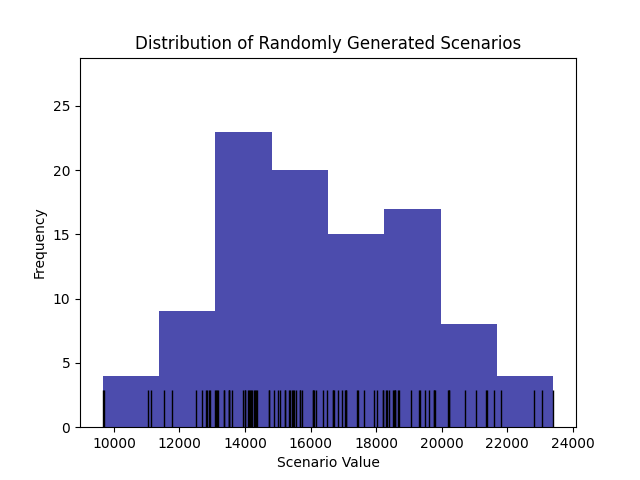
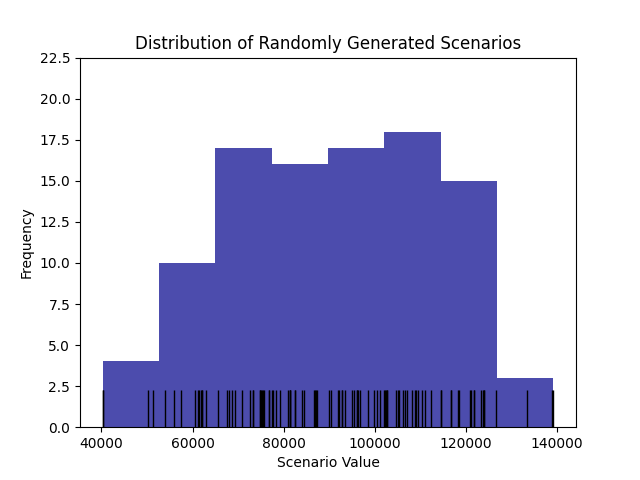
Adding  a scenario route

diff --git a/templates/scenarios.html b/templates/scenarios.html
@@ -1,0 +1,37 @@
+{% extends 'base.html' %}
+
+{% block body %}
+<div class="form-container">
+  <h1>Buy Form</h1>
+  <form method="POST" action="">
+    {{ form.hidden_tag() }}
+    <div class="form-row">
+      {{ form.mu.label }}
+      {{ form.mu(class="form-control") }}
+      {% for error in form.mu.errors %}
+        <span class="text-danger">{{ error }}</span>
+      {% endfor %}
+    </div>
+
+    <div class="form-row">
+      {{ form.sigma.label }}
+      {{ form.sigma(class="form-control") }}
+      {% for error in form.sigma.errors %}
+        <span class="text-danger">{{ error }}</span>
+      {% endfor %}
+    </div>
+
+    <div class="form-row">
+      {{ form.number_sce.label }}
+      {{ form.number_sce(class="form-control") }}
+      {% for error in form.number_sce.errors %}
+        <span class="text-danger">{{ error }}</span>
+      {% endfor %}
+    </div>
+
+    <div class="form-row">
+      {{ form.submit(class="btn btn-primary") }}
+    </div>
+  </form>
+</div>
+{% endblock %}

diff --git a/templates/scenario_results.html b/templates/scenario_results.html
@@ -1,0 +1,24 @@
+{% extends 'base.html' %}
+
+{% block body %}
+<div class="container">
+  <div class="left-container">
+    <h1>Scenario Results</h1>
+    <img src="{{ url_for('static', filename='histogram.png') }}" alt="Histogram">
+    <ul style="list-style-type: none; padding-left: 0;">
+        {% for key, value in sce_stats.items() %}
+        <li><strong>{{ key }}:</strong> {{ value|round(2) }}</li>
+      {% endfor %}
+    </ul>
+  </div>
+
+  <div class="middle-container">
+    <h2>Scenarios</h2>
+    <ul style="list-style-type: none; padding-left: 0;">
+      {% for scenario in sorted_scenarios %}
+        <li>{{ scenario|round(2)}}</li>
+      {% endfor %}
+    </ul>
+  </div>
+</div>
+{% endblock %}

diff --git a/templates/buy_results.html b/templates/buy_results.html
@@ -11,14 +11,16 @@
     <thead>
       <tr>
         <th>Strategy Name</th>
-        <th>Average Value</th>
+        <th>Average Amount</th>
+        <th>Average Rating</th>
       </tr>
     </thead>
     <tbody>
       {% for strategy in sorted_strategies %}
         <tr>
-          <td>{{ strategy[0] }}</td>
-          <td>{{ strategy[1] }}</td>
+          <td>{{ strategy[0]}}</td>
+          <td>{{ strategy[1]|round(3)}}</td>
+          <td>{{ strategy[2]|round(3)}}</td>
         </tr>
       {% endfor %}
     </tbody>

diff --git a/templates/base.html b/templates/base.html
@@ -13,7 +13,7 @@
             <ul>
                 <li><a href="{{ url_for('buy') }}">Buy</a></li>
                 <li><a href="{{ url_for('sell') }}">Sell</a></li>
-                <li><a href="#">Scenario</a></li>
+                <li><a href="{{ url_for('scenario') }}">Scenario</a></li>
             </ul>
         </nav>
     </header>

diff --git a/templates/sell_results.html b/templates/sell_results.html
@@ -20,7 +20,8 @@
         {% for strategy in sorted_strategies %}
           <tr>
             <td>{{ strategy[0] }}</td>
-            <td>{{ strategy[1]}}</td>
+            <td>{{ strategy[1] }}</td>
+            <td>{{ strategy[2]}}</td>
           </tr>
         {% endfor %}
       </tbody>

diff --git a/static/styles.css b/static/styles.css
@@ -78,3 +78,18 @@ body {
 .right-container {
   flex: 1;
 }
+
+.table {
+  border-spacing: 0.5em;
+}
+
+.table td {
+  padding: 0.5em;
+  color: lightgrey;
+  text-align: left;
+}
+
+.table th {
+  color: lightgrey;
+  text-align: left;
+}

diff --git a/app.py b/app.py
@@ -40,6 +40,13 @@ class BuyForm(FlaskForm):
     number_sce = IntegerField('Number Of Scenarios', validators=[DataRequired(), NumberRange(min=1, max=999)])
     submit = SubmitField('Buy')
 
+class ScenarioForm(FlaskForm):
+    
+    mu = FloatField('Scenario Mean', validators=[DataRequired(), NumberRange(min=0)])
+    sigma = FloatField('Scenario Standard Deviation', validators=[DataRequired(), NumberRange(min=0)])
+    number_sce = IntegerField('Number Of Scenarios', validators=[DataRequired(), NumberRange(min=1, max=999)])
+    submit = SubmitField('Create')
+
 # Functions
 # Truncate floats
 def trunc(a, x):
@@ -79,6 +86,7 @@ def sell_order(coins, str_steps, price_normalize, scenario, file=None):
 
 def buy_order(money, str_steps, price_normalize, scenario, file=None):
     coins = 0
+    rating = 0
     file.write(f"Buy order - Money: {money}\n")
     for i, val in enumerate(str_steps):
         try:
@@ -90,9 +98,10 @@ def buy_order(money, str_steps, price_normalize, scenario, file=None):
             buy = buy_amount * int(val)
             money -= buy
             coins += buy_amount
+            rating += (scenario/val)/len(str_steps)
             file.write(f"at : {val}, bought {buy_amount} for {buy}, Wallet: {coins}\n")
             file.flush()
-    return money, coins
+    return money, coins, rating
 
 sell_strategies = []
 buy_strategies = []
@@ -160,9 +169,8 @@ def sell():
                     coins = float(form.coins.data)
                     profit, coins = sell_order(coins, str_steps, price_normalize, scenario, file=file)
                     total_profit += profit
-                    
+                            
                 avg_profit = (total_profit / len(scenarios))
-                avg_profit = int(avg_profit)
                 strategy_profits.append((strategy['name'], avg_profit))
 
             sorted_strategies = sorted(strategy_profits, key=lambda x: x[1], reverse=True)       
@@ -204,6 +212,7 @@ def buy():
             file.flush()
             for strategy in buy_strategies:
                 total_coins = 0
+                total_rating = 0
                 step_size = (strategy["buy_top"] - strategy["buy_bottom"]) / (strategy["steps"] - 1)
                 str_steps = []
                 file.write(f"\nStrategy: {strategy}\n")
@@ -221,17 +230,16 @@ def buy():
                 for scenario in scenarios:
                     file.write(f"\nScenario: {scenario}\n")
                     money = float(form.money.data)
-                    money, coins = buy_order(money, str_steps, price_normalize, scenario, file=file)
+                    money, coins, rating = buy_order(money, str_steps, price_normalize, scenario, file=file)
                     total_coins += coins
+                    total_rating += rating
         
                 avg_coins = (total_coins / len(scenarios))
-                avg_rating = (ratings / len(scenarios))
-                # avg_coins = int(avg_coins)
+                avg_rating = (total_rating / len(scenarios))
                 file.write(f"avg_coins: {avg_coins} total_coins {total_coins}\n")
                 strategy_amounts.append((strategy['name'], avg_coins, avg_rating))
                                     
-        
-            sorted_strategies = sorted(strategy_amounts, key=lambda x: x[1], reverse=True)       
+                sorted_strategies = sorted(strategy_amounts, key=lambda x: x[1], reverse=True)       
             file.write(f"Sorted Strategies: {sorted_strategies}\n")
             file.close()
 
@@ -241,6 +249,33 @@ def buy():
         return render_template('buy_results.html', sorted_strategies=sorted_strategies)
 
     return render_template('buy.html', form=form)
+
+@app.route('/scenarios.html', methods=['GET', 'POST'])
+def scenario():
+    form = ScenarioForm()
+    if form.validate_on_submit():
+        mu = float(form.mu.data)
+        sigma = float(form.sigma.data)
+        number_sce = int(form.number_sce.data)
+        scenarios = [random.gauss(mu, sigma) for i in range(number_sce)]
+        scenarios_str = ', '.join(map(str, scenarios))
+        percentiles = np.percentile(scenarios, [5, 95])
+        sce_stats =  {
+            'mu': mu,
+            'sigma': sigma,
+            'min': min(scenarios),
+            'max': max(scenarios),
+            '5th_percentile': percentiles[0],
+            '95th_percentile': percentiles[1]}   
+        plot_histogram(scenarios, 'histogram.png') 
+        with open('scenario_report.txt', 'w') as file:
+            file.write(f"Scenario parameters: mu: {mu}, sigma: {sigma}, number_sce: {number_sce}\n\n")
+            file.write(f"Scenarios\n{scenarios_str}\n\n")
+            file.close()
+        sorted_scenarios = sorted(scenarios, reverse=True)   
+        return render_template('scenario_results.html', sorted_scenarios = sorted_scenarios, sce_stats = sce_stats)
+    
+    return render_template('scenarios.html', form=form)
 
 if __name__ == "__main__":
     app.run(debug=True)
